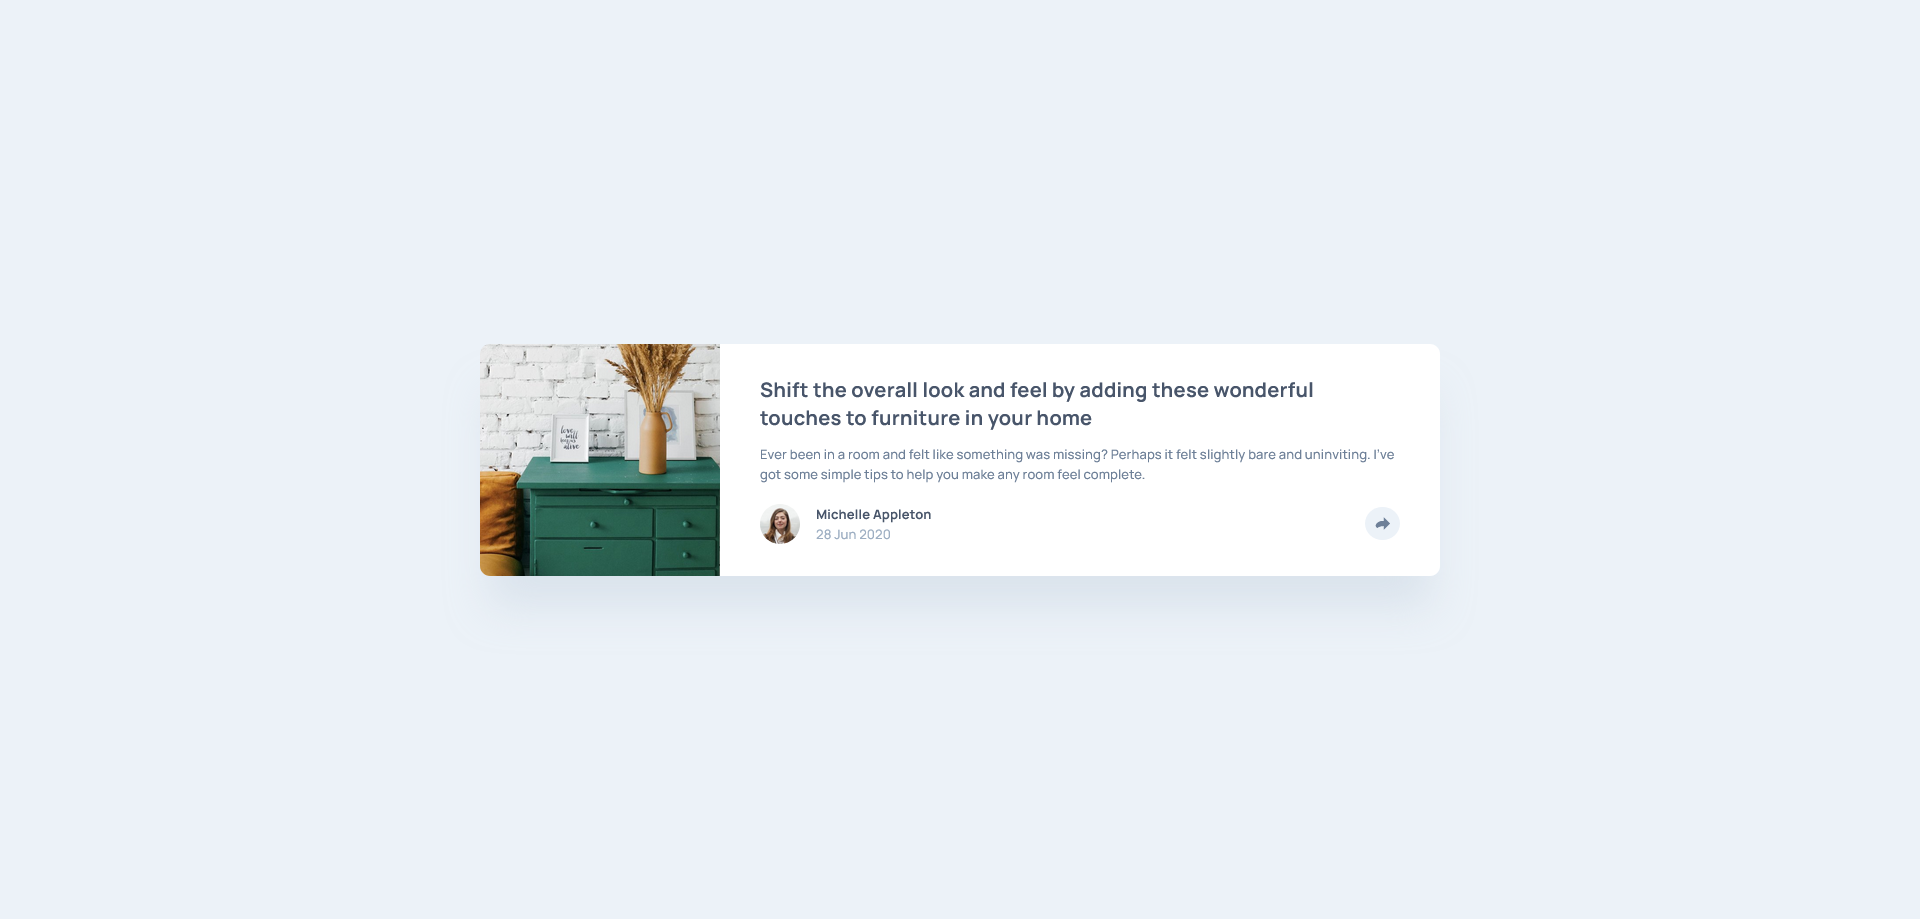
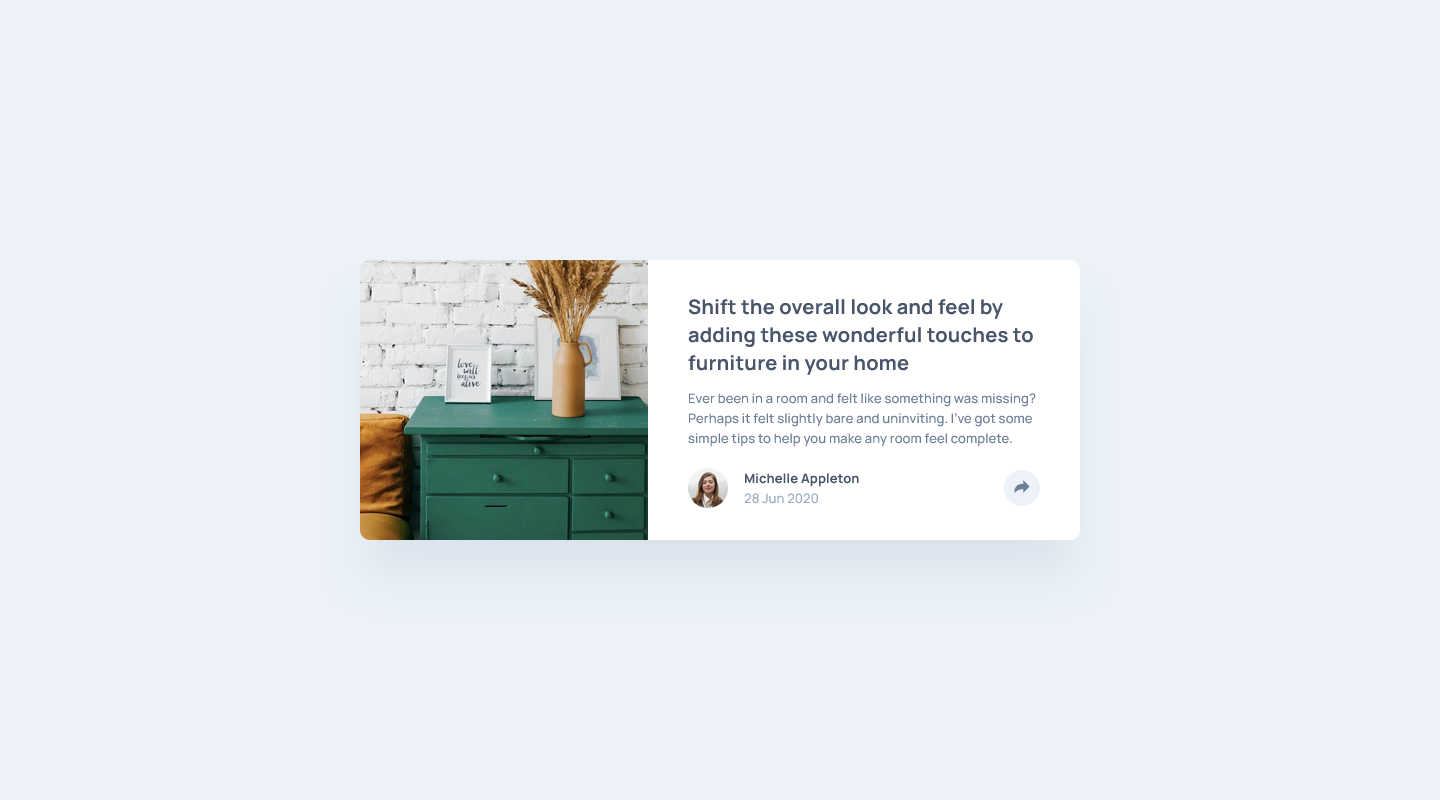
article-preview-component: fix svg & active state

Changed region(s): [[0.25, 0.3125, 0.75, 0.6875]]

diff --git a/frontend-mentor/article-preview-component/css/app.css b/frontend-mentor/article-preview-component/css/app.css
@@ -1,1 +1,1 @@
-@import"https://fonts.googleapis.com/css2?family=Manrope:wght@500;700&display=swap";*{margin:0;padding:0;box-sizing:border-box}body{font-family:"Manrope",sans-serif;font-size:13px;background-color:#ecf2f8;display:flex;justify-content:center;align-items:center;min-height:100vh}main{display:grid;grid-template-columns:.8fr 1.2fr;max-width:50%;border-radius:10px;overflow:hidden;box-shadow:0px 40px 40px -10px rgba(201,213,225,.503415)}h1{font-weight:700;font-size:20px;line-height:28px;letter-spacing:.25px;color:#48556a;margin-bottom:12px}p{font-weight:500;font-size:13px;line-height:20px;letter-spacing:.12px;color:#6e8098}section{background-color:#fff;padding:32px 40px}.share--icon{display:block;margin-left:auto;margin-right:unset;background-color:#ecf2f8;padding:10px;border-radius:50%;z-index:2}.share--icon.active{background-color:#6e8098}.share--icon:hover{cursor:pointer}.share--tab{position:absolute;display:none;justify-content:center;align-items:center;gap:16px;padding:16px 32px;background-color:#48556a;border-radius:10px;box-shadow:0px 10px 10px rgba(201,213,225,.503415)}.share--tab img:hover{cursor:pointer}.share--tab p{color:#9daec2;letter-spacing:5px;text-transform:uppercase}.share--tab.active{display:flex}.article__img{background-image:url(../assets/drawers.jpg);background-size:cover}.article--date{color:#9daec2}.article__author{margin-top:20px;display:flex;align-items:center}.article__author--picture{width:40px;height:40px;border-radius:50%;margin-right:16px}.article__author--name{color:#48556a;font-weight:700}@media screen and (max-width: 768px){main{grid-template-columns:1fr;grid-template-rows:.75fr 1.25fr;max-width:87%}h1{font-size:16px;line-height:24px;letter-spacing:.2px}section{padding:36px 32px 12px 32px}.share--tab{padding:22px 120px 22px 32px;width:87%;transform:translateX(-32px);border-top-left-radius:0;border-top-right-radius:0}.article__img{background-position:center}.article__author{margin-top:32px}}/*# sourceMappingURL=app.css.map */
+@import"https://fonts.googleapis.com/css2?family=Manrope:wght@500;700&display=swap";*{margin:0;padding:0;box-sizing:border-box}body{font-family:"Manrope",sans-serif;font-size:13px;background-color:#ecf2f8;display:flex;justify-content:center;align-items:center;min-height:100vh}main{display:grid;grid-template-columns:.8fr 1.2fr;max-width:50%;border-radius:10px;overflow:hidden;box-shadow:0px 40px 40px -10px rgba(201,213,225,.503415)}h1{font-weight:700;font-size:20px;line-height:28px;letter-spacing:.25px;color:#48556a;margin-bottom:12px}p{font-weight:500;font-size:13px;line-height:20px;letter-spacing:.12px;color:#6e8098}section{background-color:#fff;padding:32px 40px}.share--icon{margin-left:auto;margin-right:unset;background-color:#ecf2f8;width:36px;height:36px;border-radius:50%;z-index:2;cursor:pointer;fill:#6e8098}.share--icon.active{background-color:#6e8098;fill:#ecf2f8}.share--tab{position:absolute;display:none;justify-content:center;align-items:center;gap:16px;padding:16px 32px;background-color:#48556a;border-radius:10px;box-shadow:0px 10px 10px rgba(201,213,225,.503415)}.share--tab-arrow{position:absolute;border:12px solid transparent;border-left-color:#48556a;right:-24px}.share--tab img:hover{cursor:pointer}.share--tab p{color:#9daec2;letter-spacing:5px;text-transform:uppercase}.share--tab.active{display:flex}.article__img{background-image:url(../assets/drawers.jpg);background-size:cover}.article--date{color:#9daec2}.article__author{margin-top:20px;display:flex;align-items:center}.article__author--picture{width:40px;height:40px;border-radius:50%;margin-right:16px}.article__author--name{color:#48556a;font-weight:700}@media screen and (max-width: 768px){main{grid-template-columns:1fr;grid-template-rows:.75fr 1.25fr;max-width:87%}h1{font-size:16px;line-height:24px;letter-spacing:.2px}section{padding:36px 32px 12px 32px}.share--tab{padding:22px 120px 22px 32px;width:87%;transform:translateX(-32px);border-top-left-radius:0;border-top-right-radius:0}.share--tab-arrow{display:none}.article__img{background-position:center}.article__author{margin-top:32px}}/*# sourceMappingURL=app.css.map */

diff --git a/frontend-mentor/article-preview-component/css/app.scss b/frontend-mentor/article-preview-component/css/app.scss
@@ -58,20 +58,19 @@ section {
 }
 
 .share--icon {
-  display: block;
   margin-left: auto;
   margin-right: unset;
   background-color: $background;
-  padding: 10px;
+  width: 36px;
+  height: 36px;
   border-radius: 50%;
   z-index: 2;
+  cursor: pointer;
+  fill: $desatured-dark-blue;
 
   &.active {
     background-color: $desatured-dark-blue;
-  }
-
-  &:hover {
-    cursor: pointer;
+    fill: $background;
   }
 }
 
@@ -85,6 +84,13 @@ section {
   background-color: $dark-grayish-blue;
   border-radius: 10px;
   box-shadow: 0px 10px 10px rgba(201, 213, 225, 0.503415);
+
+  &-arrow {
+    position: absolute;
+    border: 12px solid transparent;
+    border-left-color: $dark-grayish-blue;
+    right: -24px;
+  }
 
   img:hover {
     cursor: pointer;
@@ -154,6 +160,10 @@ section {
     transform: translateX(-32px);
     border-top-left-radius: 0;
     border-top-right-radius: 0;
+
+    &-arrow {
+      display: none;
+    }
   }
 
   .article {

diff --git a/frontend-mentor/article-preview-component/index.html b/frontend-mentor/article-preview-component/index.html
@@ -27,13 +27,14 @@
             <p class="article__author--name">Michelle Appleton</p>
             <p class="article--date">28 Jun 2020</p>
           </div>
-          <img src="assets/icon-share.svg" alt="Share" class="share--icon">
+          <svg class="share--icon" xmlns="http://www.w3.org/2000/svg" viewbox="0 -10 15 36"><path d="M15 6.495L8.766.014V3.88H7.441C3.33 3.88 0 7.039 0 10.936v2.049l.589-.612C2.59 10.294 5.422 9.11 8.39 9.11h.375v3.867L15 6.495z"/></svg>
 
           <div class="share--tab">
             <p>share</p>
             <img src="assets/icon-facebook.svg" alt="Share on Facebook">
             <img src="assets/icon-twitter.svg" alt="Share on Twitter">
             <img src="assets/icon-pinterest.svg" alt="Share on Pinterest">
+            <div class="share--tab-arrow"></div>
           </div>
         </div>
       </section>

diff --git a/frontend-mentor/article-preview-component/README.md b/frontend-mentor/article-preview-component/README.md
@@ -26,9 +26,17 @@ Users should be able to:
 
   ![](screenshots/desktop-design-made.png)
 
+- Desktop active
+
+  ![](screenshots/desktop-design-made-active.png)
+
 - Mobile
 
   ![](screenshots/mobile-design-made.png)
+
+- Mobile active
+
+  ![](screenshots/mobile-design-made-active.png)
 
 ## My process
 
@@ -36,6 +44,7 @@ Users should be able to:
 
 - HTML
 - Sass
+- JavaScript
 
 ## Author
 
